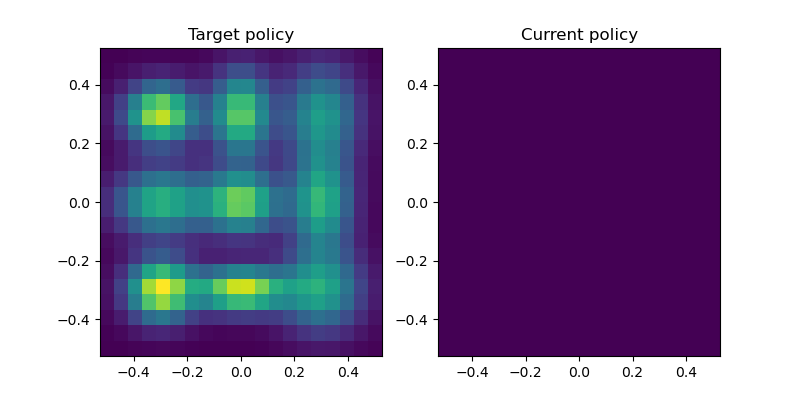
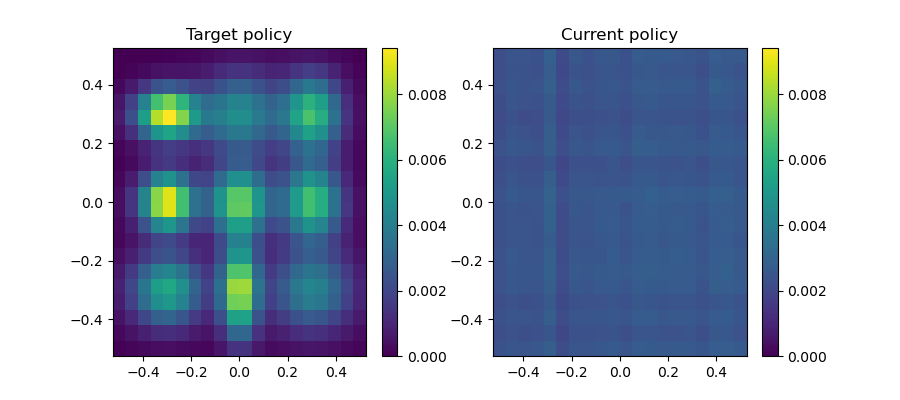
bug fix viz

diff --git a/grpo/run.py b/grpo/run.py
@@ -29,27 +29,29 @@ def plot_current_policy(
         torch.linspace(-0.5, 0.5, steps=n_bins_per_dim)
     )  # (100, 2)
     assert torch.isclose(grid, grid2).all()
-    target_dist = energy_fn.gmm.log_prob(grid).exp()
+    target_dist = torch.exp(-energy_fn.energies) / energy_fn.normalizing_constant
     # x_indices, y_indices, _ = policy.sample_and_probs(100)
 
-    fig, axs = plt.subplots(ncols=2, figsize=(8, 4))
-    axs[0].pcolormesh(
+    fig, axs = plt.subplots(ncols=2, figsize=(9, 4))
+    im0 = axs[0].pcolormesh(
         grid_x,
         grid_y,
         target_dist.view(n_bins_per_dim, n_bins_per_dim).cpu(),
-        vmin=0.0, vmax=target_dist.max(),
+        vmin=0.0, vmax=target_dist.max()
     )
     axs[0].set_title("Target policy")
+    plt.colorbar(im0, ax=axs[0])
 
     grid_x_indices, grid_y_indices = torch.meshgrid(
         torch.arange(n_bins_per_dim), torch.arange(n_bins_per_dim)
     )
     probs = policy((grid_x_indices.reshape(-1), grid_y_indices.reshape(-1)))
     probs = probs.prod(dim=-1)
-    axs[1].pcolormesh(
+    im1 = axs[1].pcolormesh(
         grid_x, grid_y, probs.view(n_bins_per_dim, n_bins_per_dim).cpu(),
-        vmin=0.0, vmax=target_dist.max(),
+        vmin=0.0, vmax=target_dist.max()
     )
+    plt.colorbar(im1, ax=axs[1])
     axs[1].set_title("Current policy")
     if plot_name is not None:
         plt.savefig(Path(plot_name).with_suffix(".png"))
@@ -70,9 +72,9 @@ def main():
     use_sparse_reward = True
     reward_temperature = 1.0
     use_ema = True
-    old_policy_update_freq = 1 if use_ema else 100
+    old_policy_update_freq = 10 if use_ema else 100
     epsilon = 0.1
-    beta = 0.01
+    beta = 0.1
     n_log_prints = 10
     log_freq = int(num_iterations / n_log_prints)
 

diff --git a/rewards.py b/rewards.py
@@ -78,6 +78,7 @@ class DiscreteEnergyModel(nn.Module):
         energies = -gmm.log_prob(grid).reshape(self.n_bins_per_dim, self.n_bins_per_dim)
         self.register_buffer("energies", energies)
         # (self.n_bins_per_dim, self.n_bins_per_dim)
+        self.register_buffer("normalizing_constant", torch.exp(-self.energies).sum())
 
     def forward(self, x_indices: Tensor, y_indices: Tensor) -> Tensor:
         """
